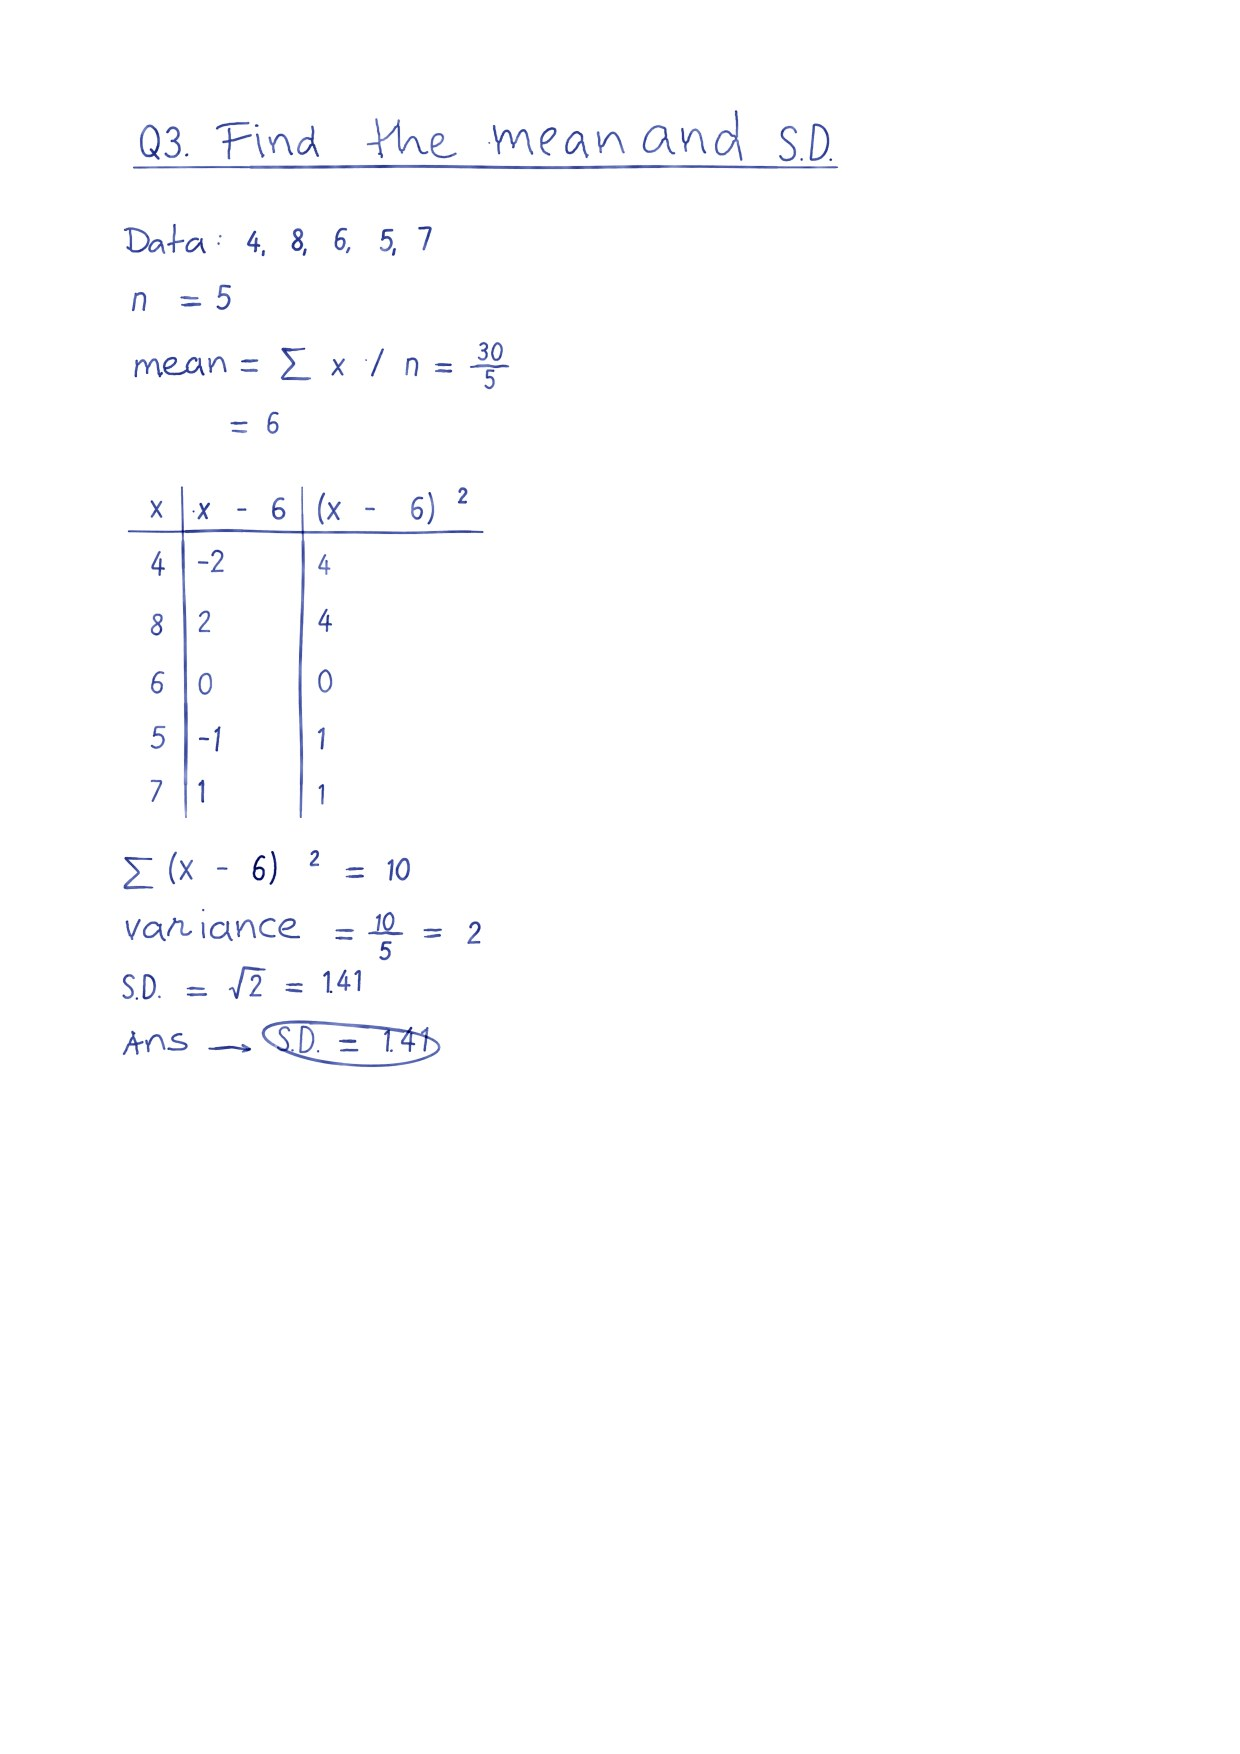
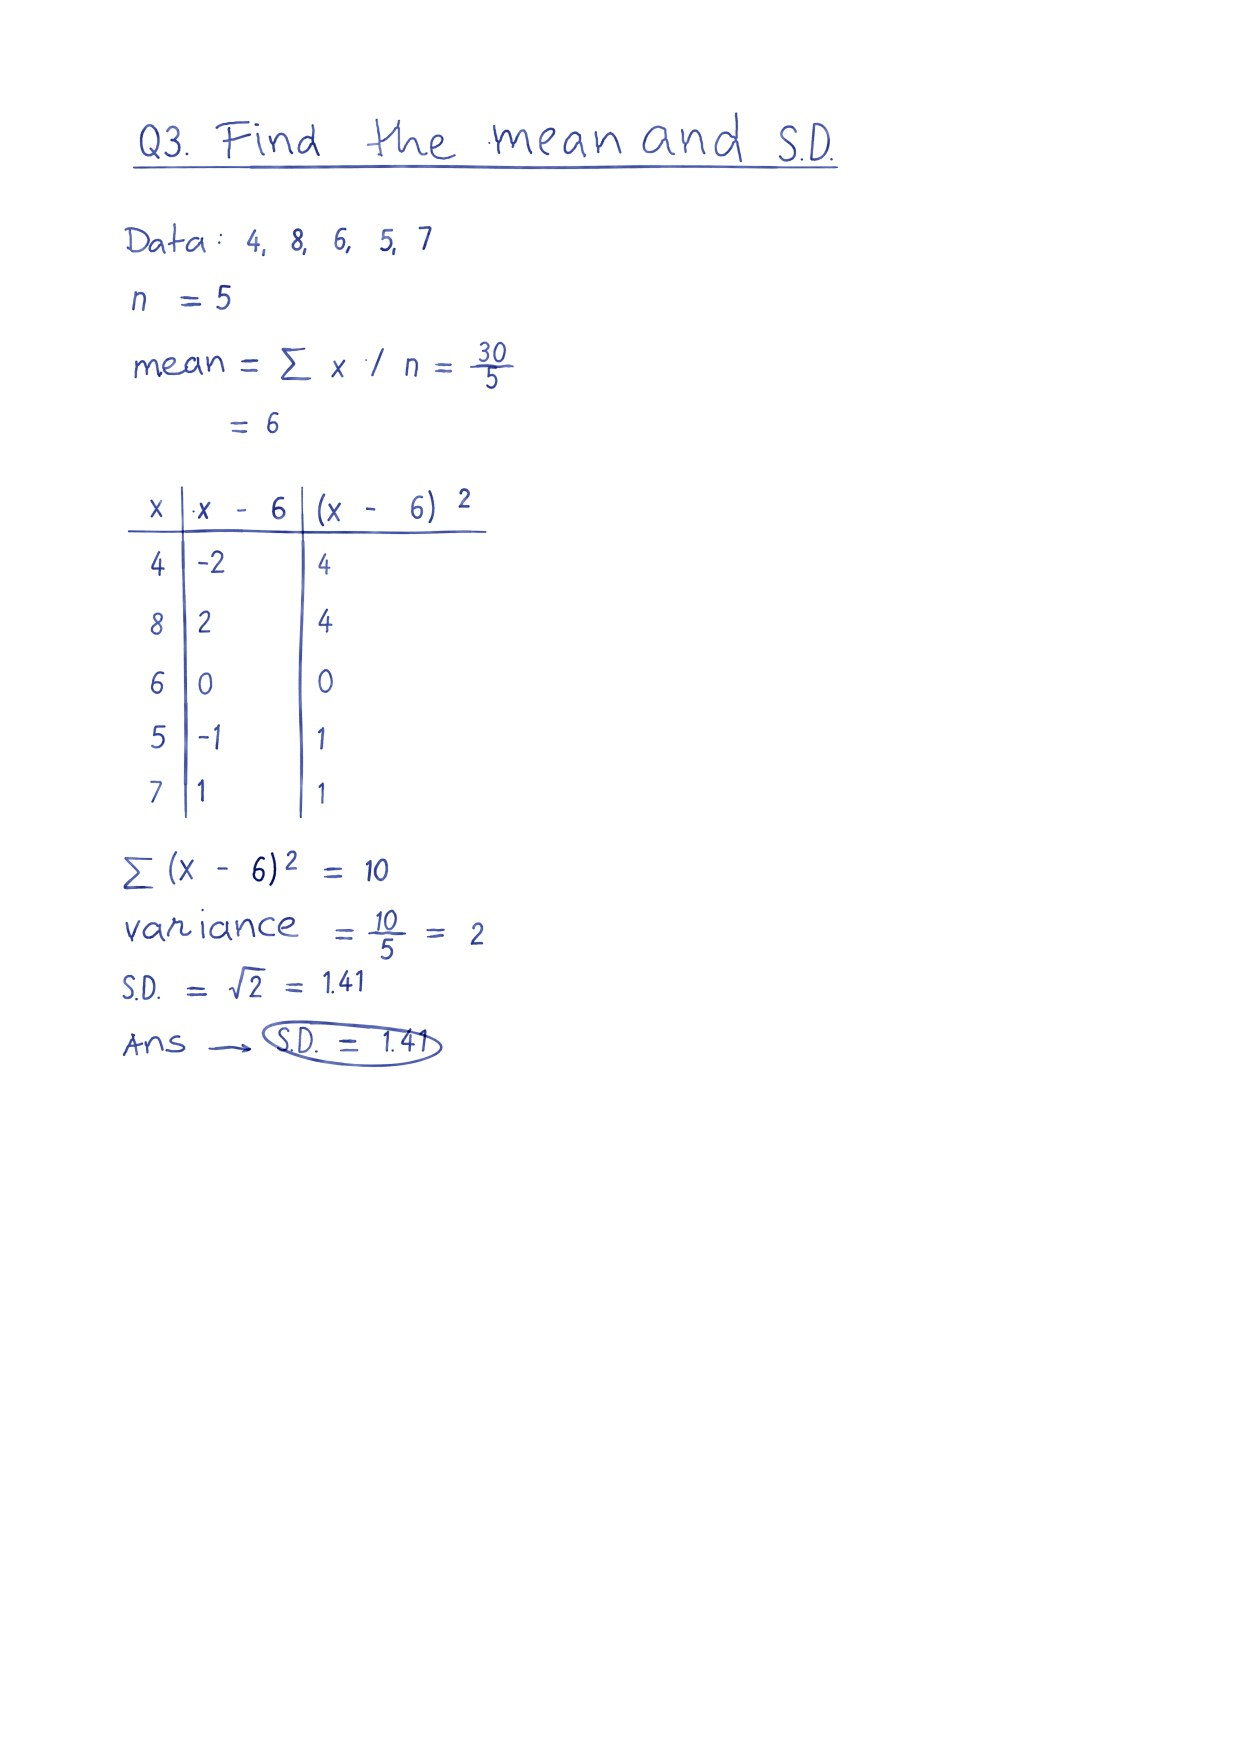
Benchmark round 5 (main average 0.038, maths 0.150), style-matched blind test result, maths sample re-rendered

diff --git a/docs/BENCHMARK.md b/docs/BENCHMARK.md
@@ -284,6 +284,43 @@ What changed, honestly:
 - Speed: 532 s for the page (77 s per line) under a load of 12 to 15 from other jobs on the
   machine, so this time is not comparable with round 3.
 
+## Round 5: the pangram wrap fixed, maths read better
+
+Same 7 lines, same judge, same scripts. Changes since round 4: a short last word or two may run
+into the right margin instead of wrapping onto a new line alone (round 4's pangram lost "dog."
+that way, which inflated its average); superscripts and fractions are set larger and tighter.
+Nothing was changed for the judge's benefit: the test text, the settings and the seed are the
+same, and the same code also gives the maths and digits lines their new numbers.
+
+| System | norm CER, 4 main lines | raw CER, 4 main lines | short | definition | maths | pangram | caps (norm) | digits (norm) | symbols (raw) |
+|---|---|---|---|---|---|---|---|---|---|
+| ductus natural, round 3 | 0.093 | 0.150 | 0.000 | 0.000 | 0.350 | 0.023 | 0.136 | 0.111 | 0.609 |
+| ductus natural, round 4 | 0.122 | 0.185 | 0.000 | 0.000 | 0.350 | 0.140 | 0.000 | 0.037 | 0.478 |
+| **ductus natural, round 5** | **0.038** | **0.134** | 0.000 | 0.000 | **0.150** | 0.000 | 0.000 | 0.037 | 0.435 |
+| sjvasquez, bias 0.75 | 0.084 | 0.191 | 0.000 | 0.114 | 0.200 | 0.023 | 1.500 | 0.482 | 0.783 |
+| Grzego RNN, bias 1.5 | 0.124 | 0.201 | 0.000 | 0.171 | 0.300 | 0.023 | 0.591 | 0.111 | 0.826 |
+| text-to-handwriting, Caveat | 0.000 | 0.088 | 0.000 | 0.000 | 0.000 | 0.000 | 0.000 | 0.037 | 0.478 |
+
+What the judge read for ductus in round 5: short `Meet me at the library at 5 p.m.`;
+definition `Variance - mean of Squared deviations`; maths `mean # ft :6 and x2 :36 .`; pangram
+`The quick brown fox jumps over the lazy dog .`; caps `BTC NASA HTML GPU ICCV.`; digits
+`0123456789 and 3.4 and 2026`; symbols `# # ( ) at & ? # # #`.
+
+Read this honestly:
+
+- Main-line average 0.038 is ahead of sjvasquez (0.084) and Grzego (0.124), and behind only the
+  Caveat font (0.000). Of the four lines, three are 0.000 and the maths line is 0.150.
+- Round 4 to round 5 is mostly the pangram fix (0.140 to 0.000). That line is a lucky or
+  unlucky wrap away from moving 0.03 to 0.04 on the average; with 7 lines and one sample each,
+  differences of a few hundredths between rounds are within that noise.
+- Maths: 0.350 to 0.150. The judge still reads the drawn `=` as `#` or `:` and sometimes
+  loses the stacked fraction (re-writing the maths line alone with different seeds scored 0.10 to 0.35 before the size
+  change, 3 seeds, and 0.05 to 0.20 after, 4 seeds, so the gain is real but small and noisy).
+- Symbols raw 0.435 is still behind the fonts at 0.35 to 0.44; `%`, `+`, `;` and `:` are
+  read as `#` or dropped. The decimal in `3.14` is read as `3.4` (the dot is small).
+- Speed: 85 s for the page (12 s per line) on a lightly loaded machine (load 1 to 4), faster
+  than round 3 (38 s per line); template tokens skip the RNN and the read-back.
+
 ## Raw data
 
 Per-system numbers: [`benchmark/metrics.csv`](../benchmark/metrics.csv). Systems and settings:

diff --git a/README.md b/README.md
@@ -10,7 +10,7 @@
   <img alt="Python 3.10+" src="https://img.shields.io/badge/python-3.10%2B-1C2A6E">
   <img alt="Runs on CPU" src="https://img.shields.io/badge/runs%20on-CPU-1C2A6E">
   <img alt="Engines: Graves RNN and DiffBrush" src="https://img.shields.io/badge/engines-Graves%20RNN%20%2B%20DiffBrush-1C2A6E">
-  <a href="docs/BENCHMARK.md"><img alt="Benchmark: OCR CER 0.122 on 4 test lines" src="https://img.shields.io/badge/OCR%20CER-0.122%20(4%20lines)-1C2A6E"></a>
+  <a href="docs/BENCHMARK.md"><img alt="Benchmark: OCR CER 0.038 on 4 test lines" src="https://img.shields.io/badge/OCR%20CER-0.038%20(4%20lines)-1C2A6E"></a>
 </p>
 
 **ductus** turns text into handwritten A4 pages: notes with arrows and ticks, worked maths
@@ -184,7 +184,8 @@ load differed between rounds, so the speed column is only a rough guide.
 |---|---|---|---|---|---|
 | Handwriting font (Caveat, via text-to-handwriting) | **0.000** | 0.000 | 0.037 | 46% of shapes | 0.7 |
 | sjvasquez RNN (2018) | 0.084 | 1.500 | 0.482 | 0% | 2.7 |
-| **ductus, current (round 4: template numbers, symbols, capitals)** | 0.122 | **0.000** | 0.037 | 0% | 77 (loaded machine) |
+| **ductus, current (round 5)** | **0.038** | **0.000** | 0.037 | 0% | 12 |
+| ductus, round 4 (template numbers, symbols, capitals) | 0.122 | 0.000 | 0.037 | 0% | 77 (loaded machine) |
 | ductus, round 3 (cursive r/f, template M/R/H/E/N) | 0.093 | 0.136 | 0.111 | 0% | 38 |
 | ductus, round 2 (RNN letters + diffusion fallback) | 0.113 | 0.227 | 0.185 | 0% | 23 |
 | Grzego RNN (2018) | 0.124 | 0.591 | 0.111 | 0% | 5.2 |
@@ -192,12 +193,10 @@ load differed between rounds, so the speed column is only a rough guide.
 
 What this says, without spin:
 
-- Round 4 fixed capitals (0.000) and digits (0.037, level with the fonts). Its main-line
-  average is worse than round 3 (0.122 against 0.093) because the pangram line wrapped this
-  time and the judge did not read the second line; the maths line stays at 0.350 because the
-  judge cannot read drawn fractions and `=` marks, though it now reads cleanly by eye.
-- It is still behind the sjvasquez RNN on average and far behind a font, and much slower than
-  both.
+- Rounds 4 and 5 drew numbers, symbols and capitals from templates and fixed a wrapped test
+  line: capitals 0.000, digits 0.037 (level with the fonts), maths 0.150. The remaining maths
+  error is the judge not reading drawn `=` marks and stacked fractions.
+- It is ahead of the 2018 RNNs on these lines (0.038 against 0.084 and 0.124) but not level with a font, and it is slower than both on a loaded machine.
 - n = 7 lines; a single bad word moves a line's CER by 10 to 15 points.
 - An earlier 40-sentence evaluation of the diffusion-only version, and a blind real-versus-
   generated test that is not yet at chance, are in [docs/EVALUATION.md](docs/EVALUATION.md)
